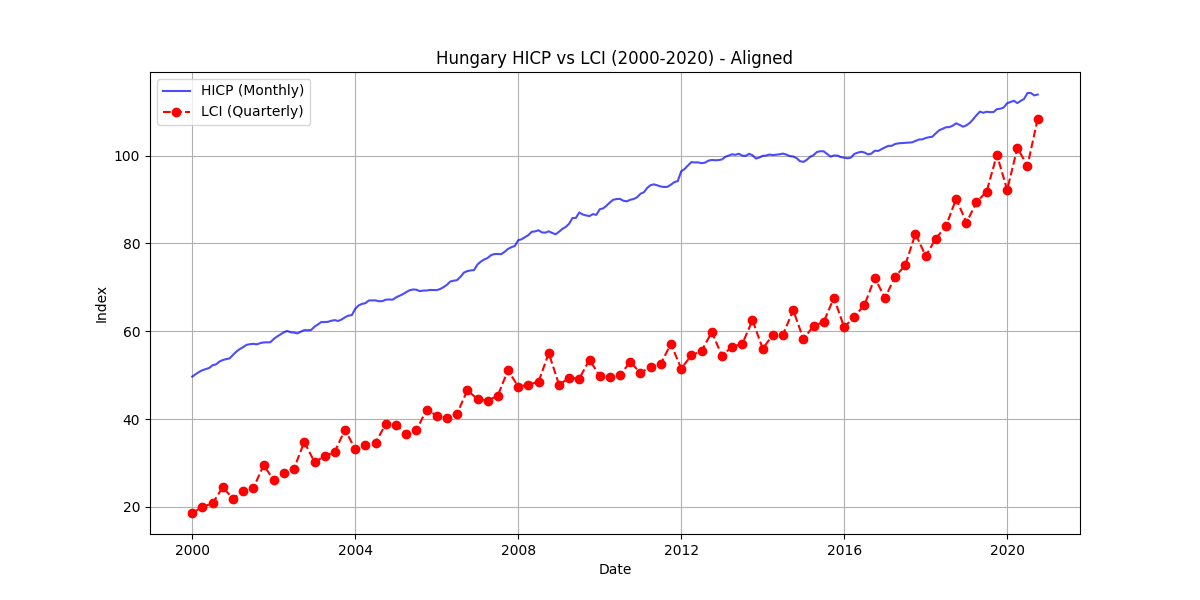
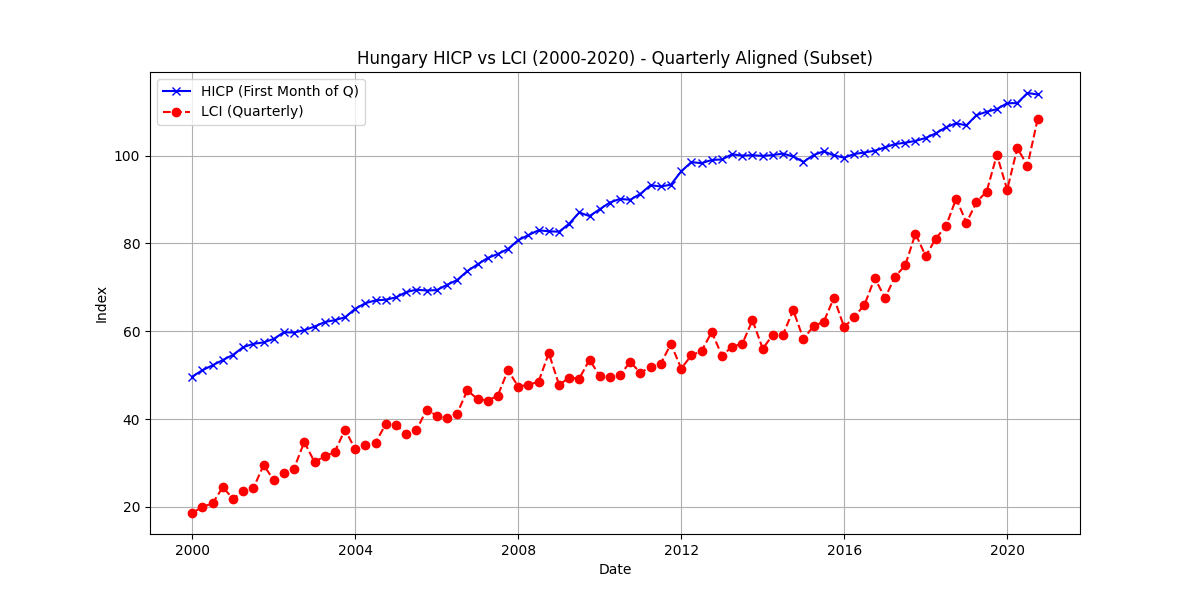
negyedeves adatok

diff --git a/NAAAA.py b/NAAAA.py
@@ -88,13 +88,24 @@ if hicp_series is not None and lci_series is not None:
     hicp_series = hicp_series[(hicp_series.index >= start_date) & (hicp_series.index <= end_date)]
     lci_series = lci_series[(lci_series.index >= start_date) & (lci_series.index <= end_date)]
     
+    # RESAMPLING: The user requested to "drop values between a quarter" rather than averaging.
+    # Since LCI indices are Jan 1, Apr 1... (checking our parsing), and HICP has these + Feb, Mar...
+    # We can simple intersect indices. This selects the Month corresponding to the Quarter start.
+    print(f"Selecting HICP values matching LCI quarters (dropping intermediate months)...")
+    # hicp_series = hicp_series.resample('QS').mean() # OLD METHOD
+    
+    # Ensure they are exactly the same size/index intersection again after resampling
+    common_idx = hicp_series.index.intersection(lci_series.index)
+    hicp_series = hicp_series.loc[common_idx]
+    lci_series = lci_series.loc[common_idx]
+    
     hicp_vals = hicp_series.values
     lci_vals = lci_series.values
 else:
     hicp_vals = hicp_vals_initial
     lci_vals = lci_vals_initial
 
-print("\n--- RESULTS (Aligned) ---")
+print("\n--- RESULTS (Aligned & Subset) ---")
 if hicp_vals is not None:
     print(f"HICP Array Shape: {hicp_vals.shape}")
     print(f"First 10: {hicp_vals[:10]}")
@@ -109,10 +120,10 @@ if hicp_series is not None and lci_series is not None:
     plt.figure(figsize=(12, 6))
     
     # Plot using the series index (dates) so they align correctly
-    plt.plot(hicp_series.index, hicp_vals, label='HICP (Monthly)', color='blue', alpha=0.7)
+    plt.plot(hicp_series.index, hicp_vals, label='HICP (First Month of Q)', color='blue', marker='x', linestyle='-')
     plt.plot(lci_series.index, lci_vals, label='LCI (Quarterly)', color='red', marker='o', linestyle='--')
     
-    plt.title(f"Hungary HICP vs LCI ({start_date.year}-{end_date.year}) - Aligned")
+    plt.title(f"Hungary HICP vs LCI ({start_date.year}-{end_date.year}) - Quarterly Aligned (Subset)")
     plt.xlabel("Date")
     plt.ylabel("Index")
     plt.grid(True)
@@ -123,3 +134,7 @@ if hicp_series is not None and lci_series is not None:
     print(f"Plot saved to: {out_file}")
 else:
     print("Cannot plot: one or both series missing.")
+
+
+
+print(lci_series.shape)
